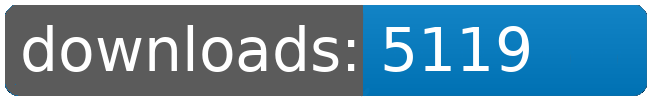
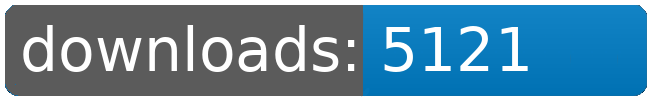
dl log written

Changed region(s): [[0.7077, 0.24, 0.8308, 0.72]]

diff --git a/README.md b/README.md
@@ -21,8 +21,8 @@
 		<td>5051</td>
 		<td>5078</td>
 		<td>5107</td>
-		<td>5119</td>
-		<td>+ 12</td>
+		<td>5121</td>
+		<td>+ 14</td>
 	</tr>
 	<tr>
 		<td>Factory.Outlets</td>
@@ -32,8 +32,8 @@
 		<td>4899</td>
 		<td>4920</td>
 		<td>4941</td>
-		<td>4951</td>
-		<td>+ 10</td>
+		<td>4952</td>
+		<td>+ 11</td>
 	</tr>
 	<tr>
 		<td>Fundamental.Outfit.Expansion</td>
@@ -109,8 +109,8 @@
 		<td></td>
 		<td></td>
 		<td></td>
-		<td>41323</td>
-		<td>88</td>
+		<td>41326</td>
+		<td>91</td>
 	</tr>
 </table>
 </sub></sup>
@@ -157,8 +157,8 @@
 		<td>5051</td>
 		<td>5078</td>
 		<td>5107</td>
-		<td>5119</td>
-		<td>+ 12</td>
+		<td>5121</td>
+		<td>+ 14</td>
 	</tr>
 	<tr>
 		<td>Korunak.Defense.Drones</td>
@@ -190,8 +190,8 @@
 		<td>4899</td>
 		<td>4920</td>
 		<td>4941</td>
-		<td>4951</td>
-		<td>+ 10</td>
+		<td>4952</td>
+		<td>+ 11</td>
 	</tr>
 	<tr>
 		<td>Jaws</td>
@@ -223,8 +223,8 @@
 		<td></td>
 		<td></td>
 		<td></td>
-		<td>41323</td>
-		<td>88</td>
+		<td>41326</td>
+		<td>91</td>
 	</tr>
 </table>
 </sub></sup>
